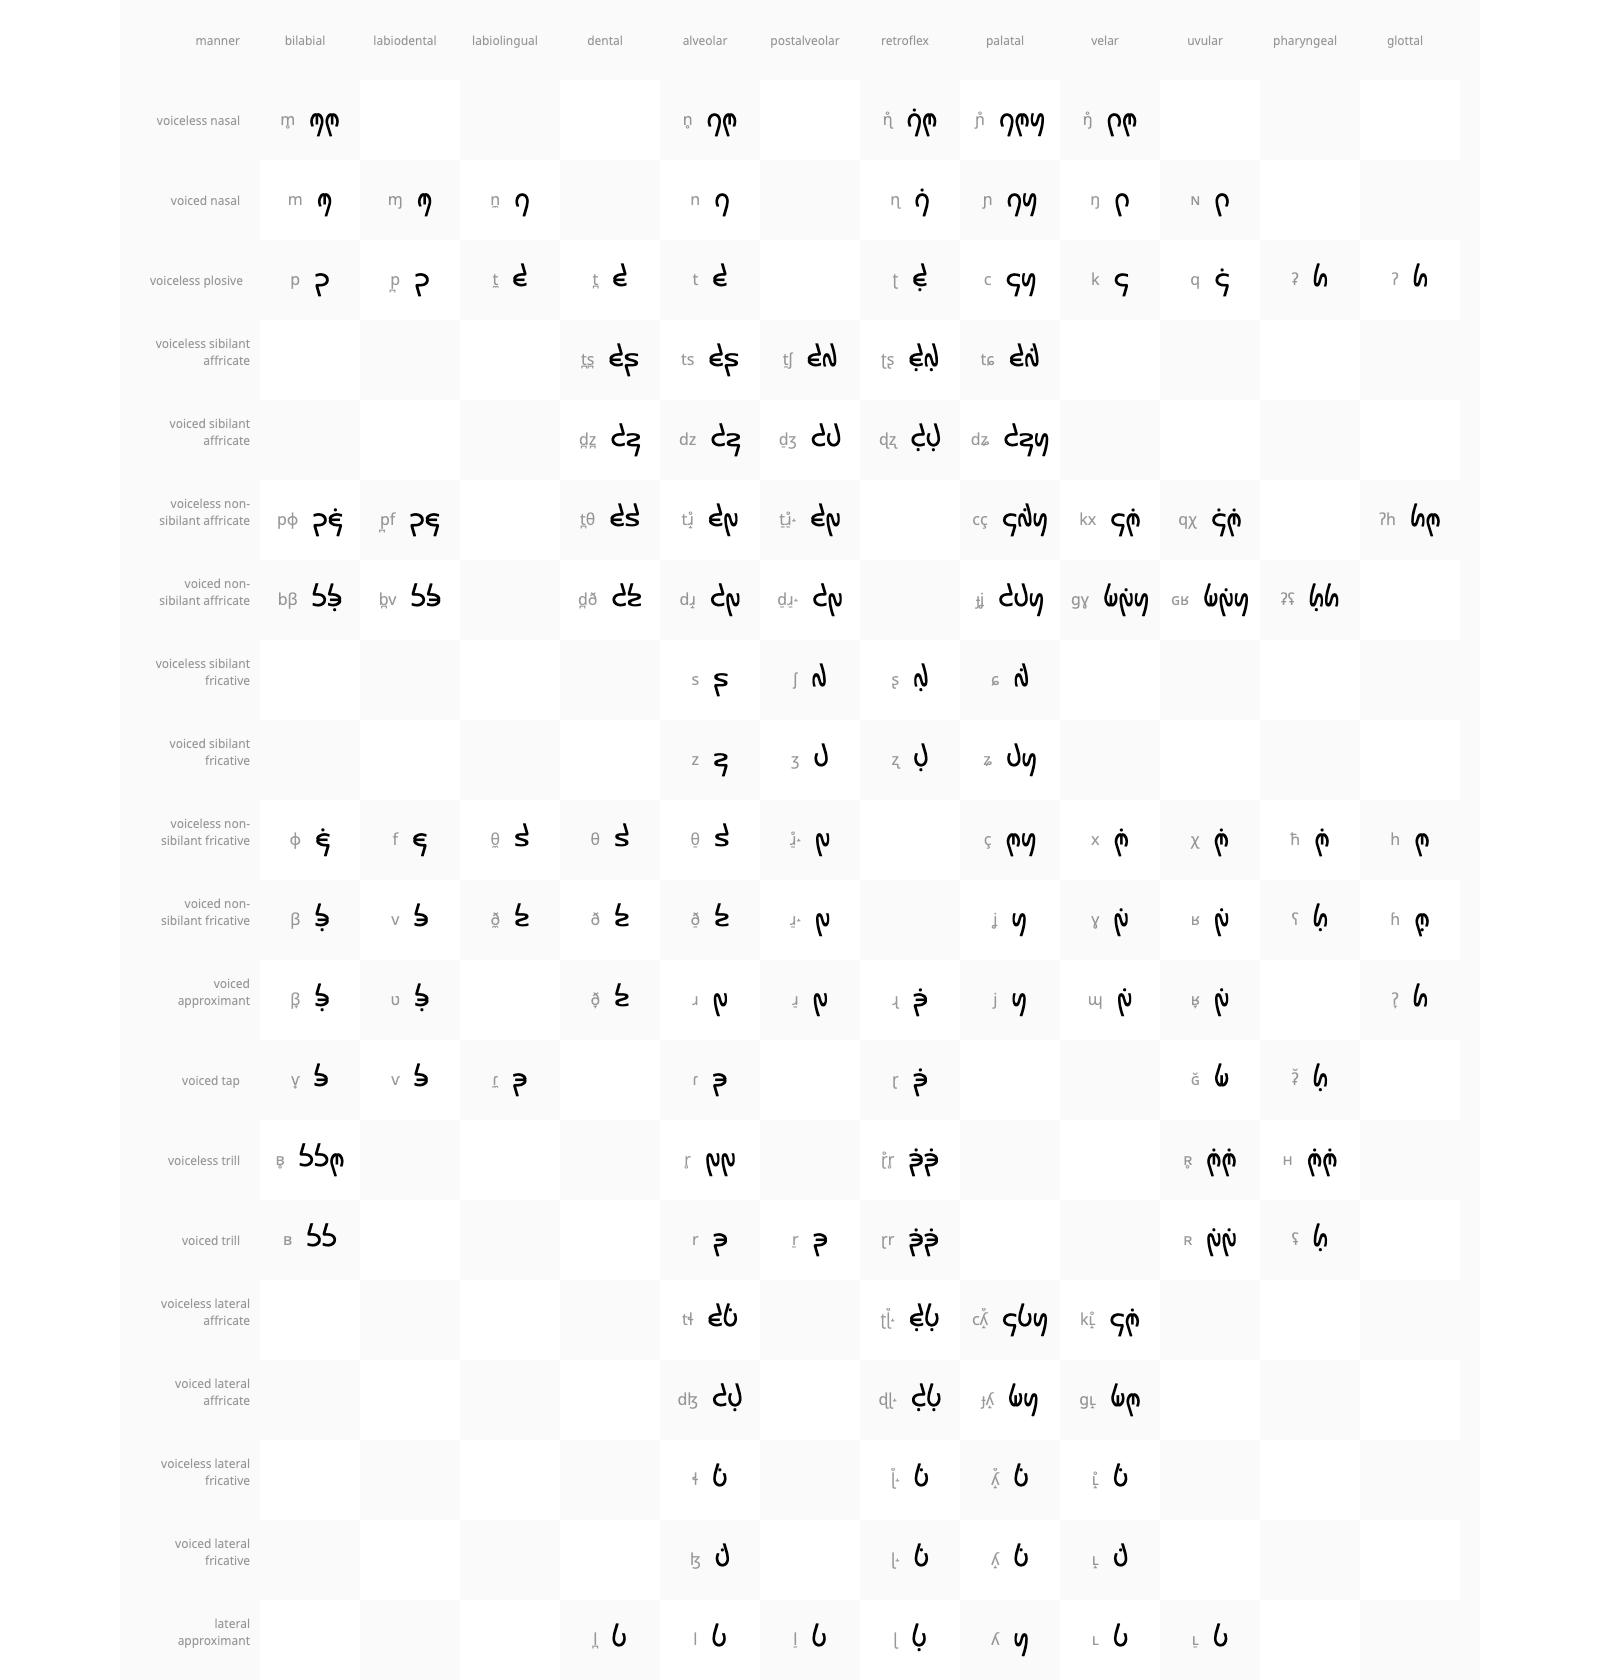
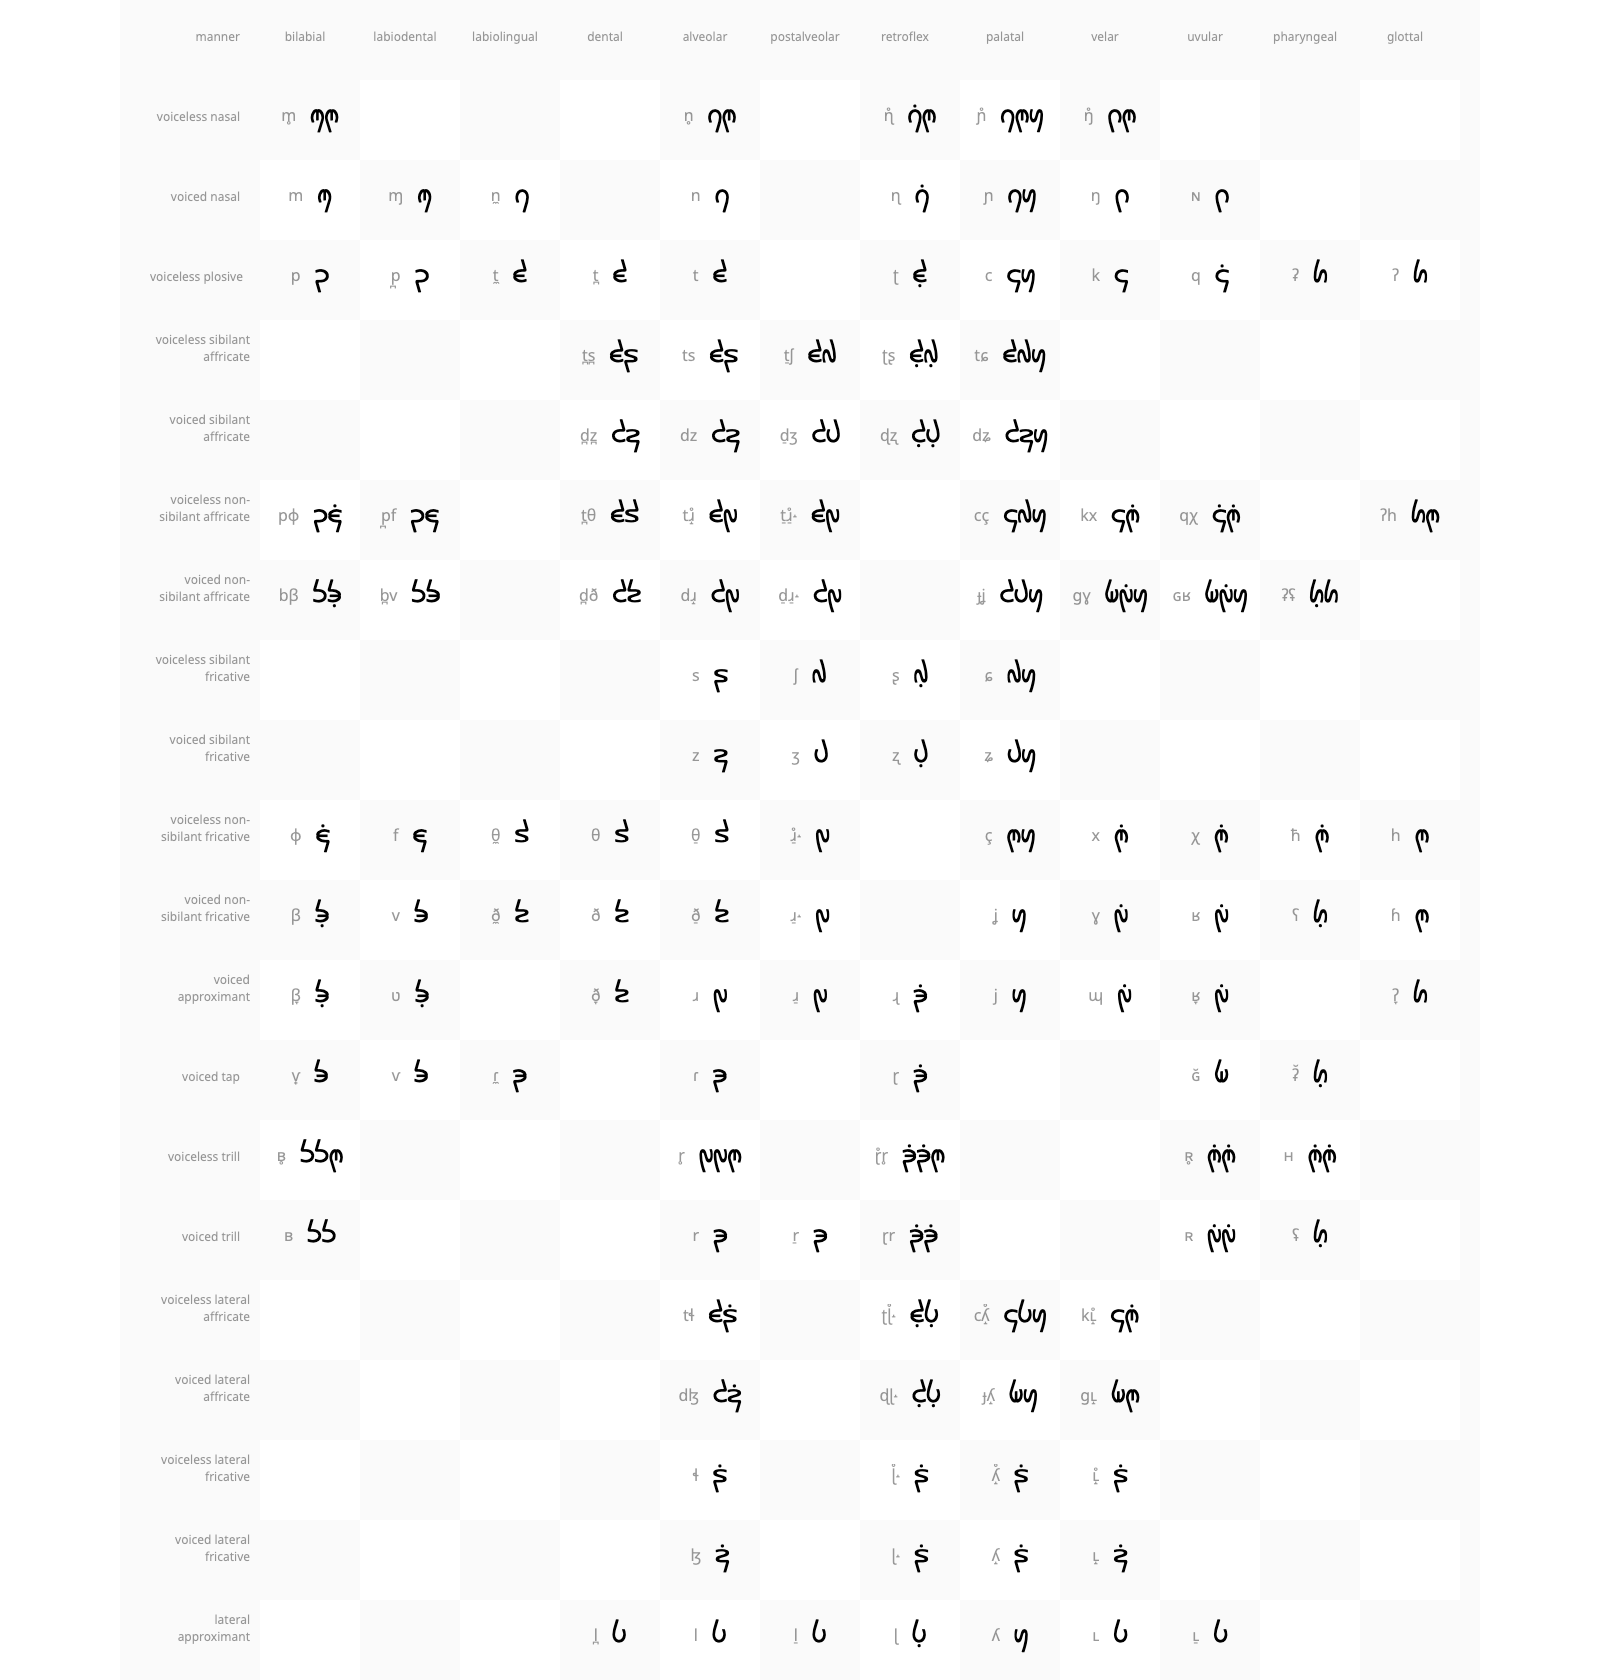
improve syntax and phonology for /ɬ/ and /ɮ/

diff --git a/form.js b/form.js
@@ -376,19 +376,18 @@ const list = [
   { text: "h~", code: "\u0121", name: 'Arabic h sound' },
   { text: "h", code: "\u0120", name: 'H sound' },
   { text: "j+", code: "\u0152", name: 'Indian j sound' },
-  { text: "j~", code: "\u0151", name: 'Zulu dl sound' },
   { text: "j", code: "\u0150", name: 'J sound' },
-  { text: "s+", code: "\u0072", name: 'Indian s sound' },
+  { text: "s+", code: "\u0072", name: 'Navajo s sound' },
   { text: "s~", code: "\u0071", name: 'Arabic s sound' },
   { text: "s.", code: "\u124a", name: 'Stop s sound' },
   { text: "s@", code: "\u1247", name: 'Tense s sound' },
   { text: "s", code: "\u0070", name: 'S sound' },
   { text: "f+", code: "\u00c2", name: 'Labial f sound' },
-  { text: "f~", code: "\u00c1", name: 'Navajo l sound' },
   { text: "f", code: "\u00c0", name: 'f sound' },
   { text: "v+", code: "\u00f2", name: 'Labial v sound' },
   { text: "v~", code: "\u00f1", name: 'Other v sound' },
   { text: "v", code: "\u00f0", name: 'V sound' },
+  { text: "z+", code: "\u0092", name: 'Zulu dl sound' },
   { text: "z", code: "\u0090", name: 'Z sound' },
   { text: "c+~", code: "\u00b2", name: 'Arabic voiced th sound' },
   { text: "c+", code: "\u00b0", name: 'Voiced th sound' },
